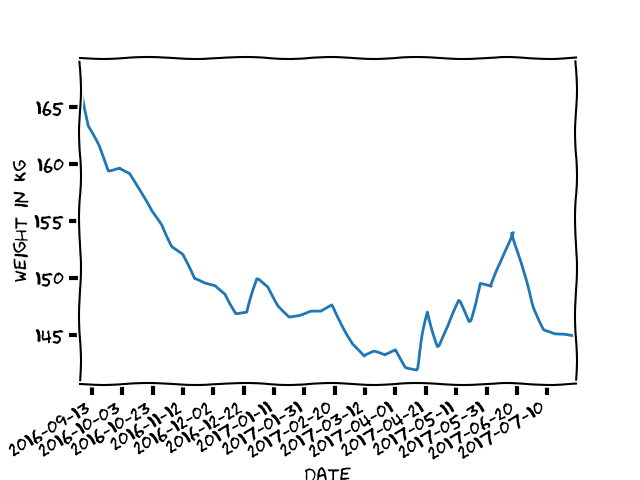
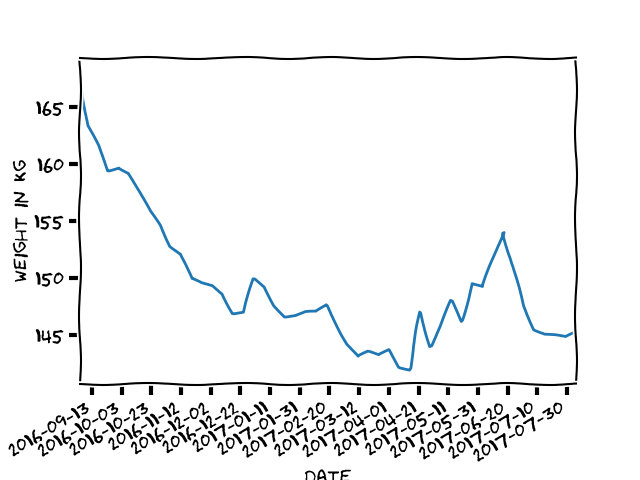
Week 32 update

diff --git a/index.html b/index.html
@@ -30,6 +30,14 @@
   </thead>
   <tbody>
     <tr>
+      <th>2017-08-05</th>
+      <td>145.2</td>
+      <td>0.4</td>
+      <td>-22.8</td>
+      <td>43.4</td>
+      <td>1.7</td>
+    </tr>
+    <tr>
       <th>2017-07-29</th>
       <td>144.8</td>
       <td>-0.2</td>
